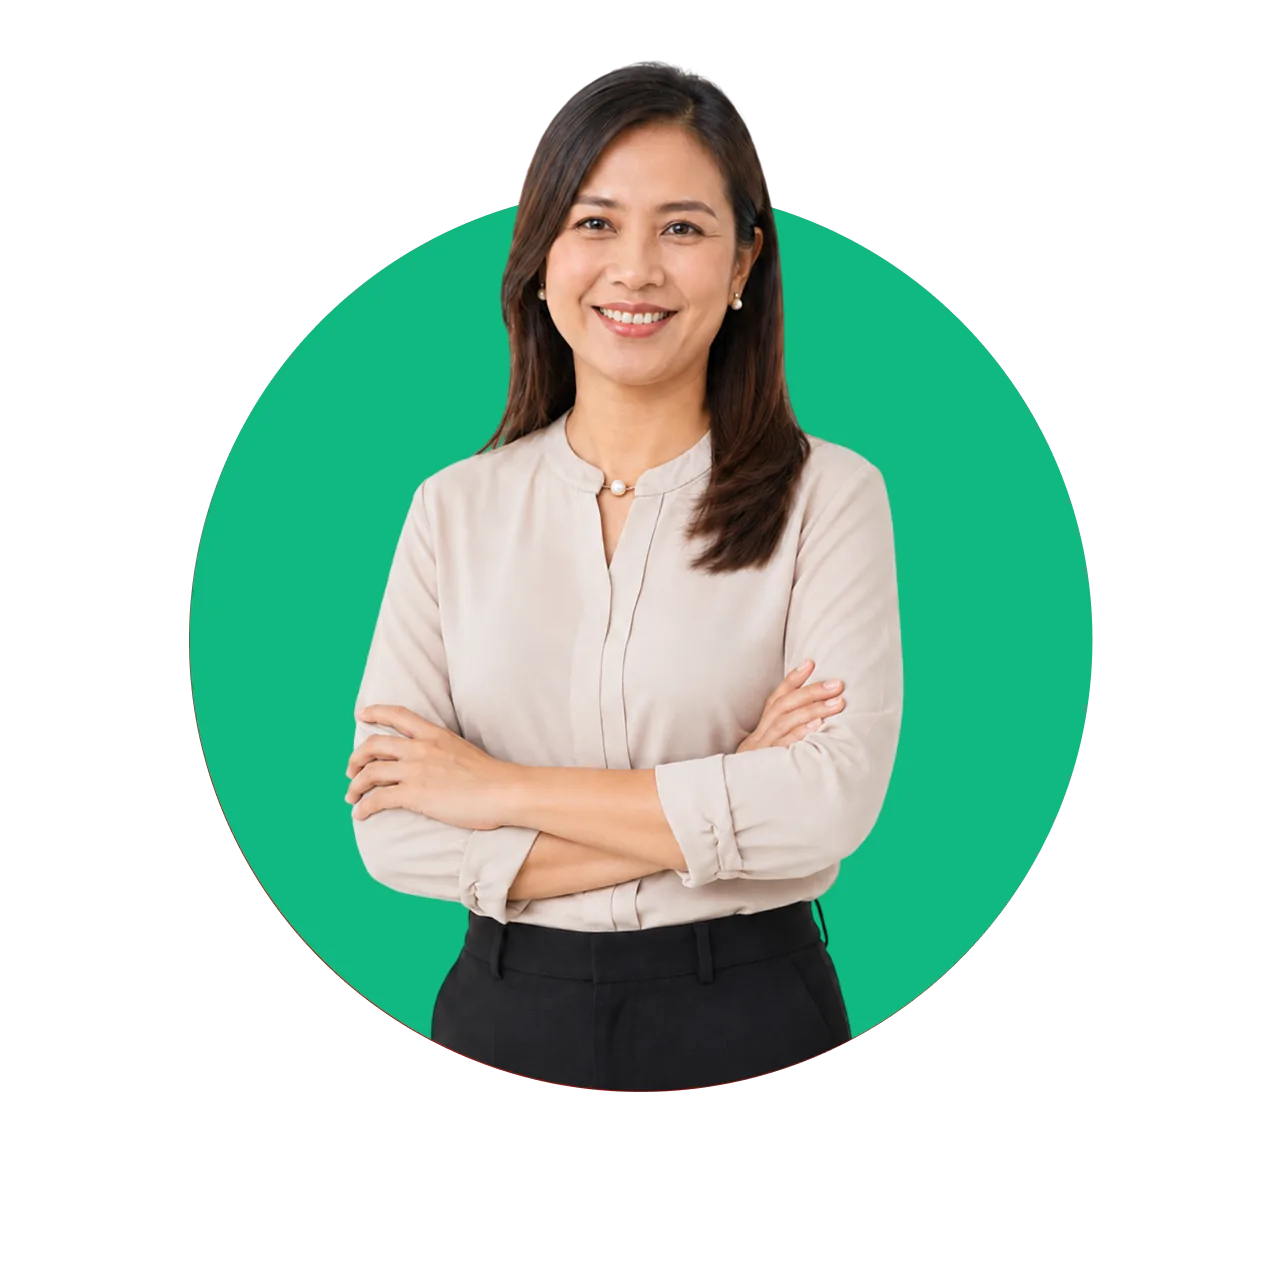
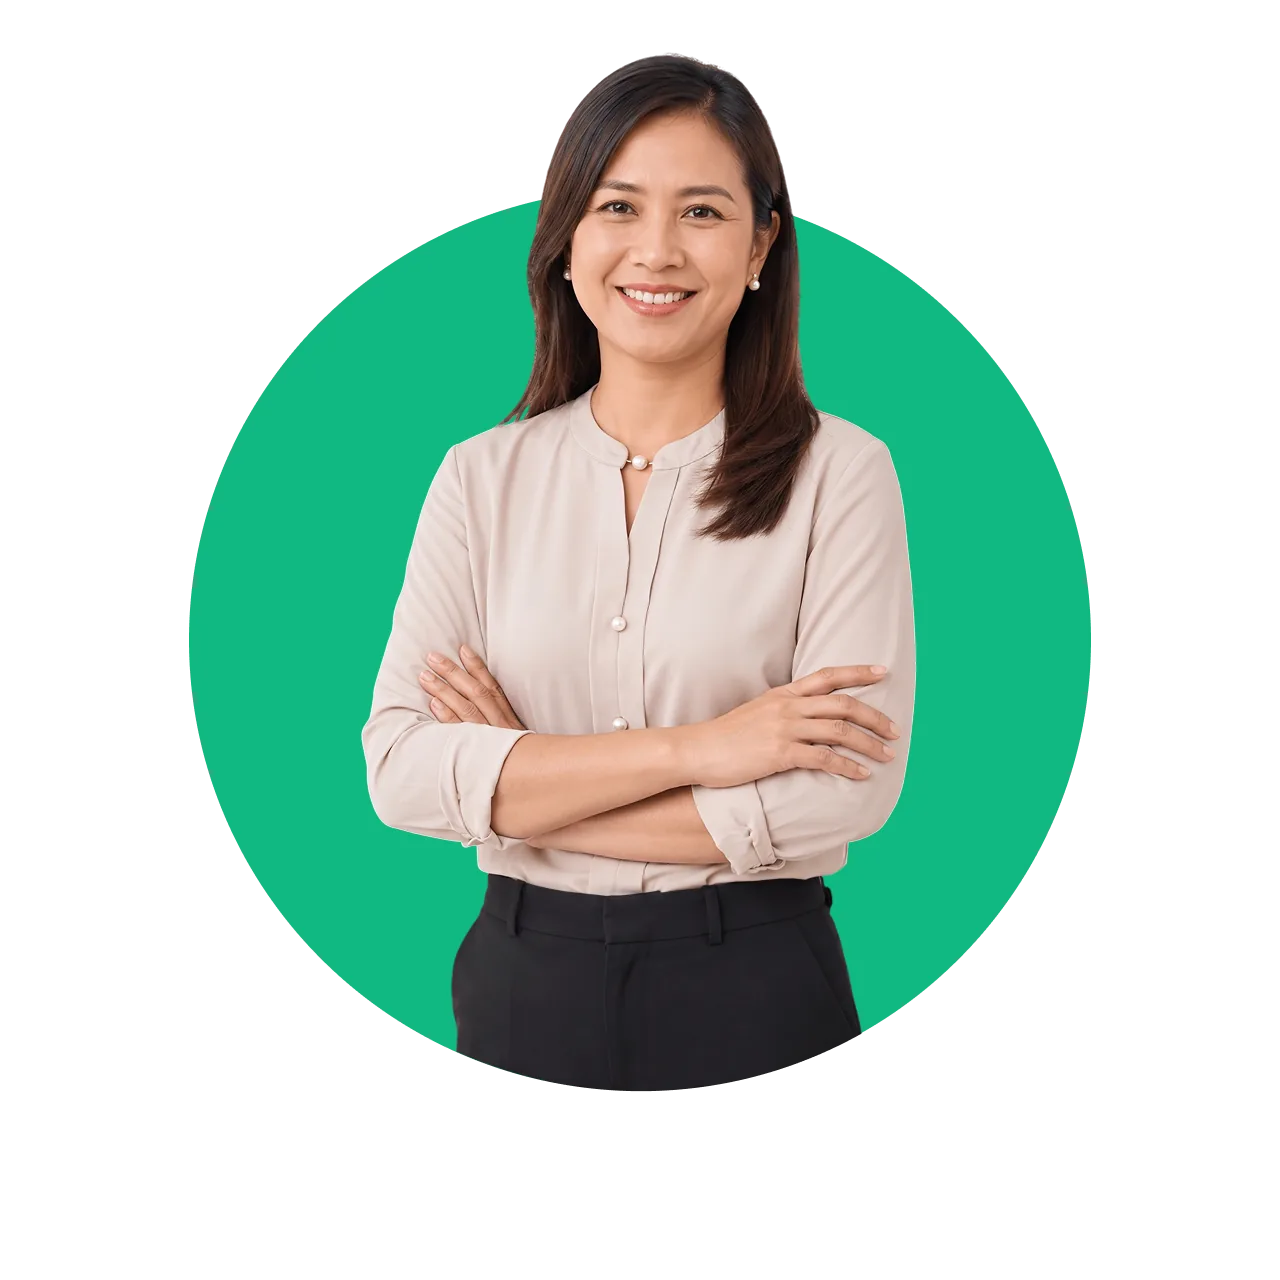
Replace admin & parent-app imagery; fix BuiltFor tablet layout
- Swap school-admin-circle and parent-app phone mockup images
- Bump BuiltFor card min-height to 600px
- Keep BuiltFor row stacked until lg to prevent cutout/text overlap at 768px

Changed region(s): [[0.25, 0.0312, 0.7188, 0.8438], [0.6562, 0.75, 0.6875, 0.8125]]

diff --git a/src/components/BuiltFor.jsx b/src/components/BuiltFor.jsx
@@ -92,7 +92,7 @@ function AudienceRow({ row, index }) {
     // person appears to rise out of the colored block. GSAP animates the
     // inner <img> while the wrapper keeps the horizontal centering.
     const mm = gsap.matchMedia()
-    mm.add('(min-width: 768px) and (prefers-reduced-motion: no-preference)', () => {
+    mm.add('(min-width: 1024px) and (prefers-reduced-motion: no-preference)', () => {
       // The cutout has a flat bottom crop, so translating it vertically either
       // pokes below the rounded corner or exposes that crop. Instead scale from
       // the bottom edge: the bottom stays pinned to the card while the figure
@@ -118,11 +118,11 @@ function AudienceRow({ row, index }) {
   }, [hasImage])
 
   return (
-    <div ref={rowRef} className={`relative ${hasImage ? 'md:pt-20' : ''}`}>
-      <div className={`relative rounded-3xl ${row.bg} overflow-hidden md:overflow-visible`}>
-        <div className="grid grid-cols-1 md:grid-cols-2 items-stretch md:min-h-[460px]">
+    <div ref={rowRef} className={`relative ${hasImage ? 'lg:pt-20' : ''}`}>
+      <div className={`relative rounded-3xl ${row.bg} overflow-hidden lg:overflow-visible`}>
+        <div className="grid grid-cols-1 lg:grid-cols-2 items-stretch lg:min-h-[600px]">
           {/* Text */}
-          <div className={`p-8 sm:p-10 md:p-14 flex flex-col justify-center ${mediaLeft ? 'md:order-2' : ''}`}>
+          <div className={`p-8 sm:p-10 md:p-14 flex flex-col justify-center ${mediaLeft ? 'lg:order-2' : ''}`}>
             <p className={`text-xs font-bold uppercase tracking-[0.14em] mb-3 ${row.eyebrow}`}>
               {row.audience}
             </p>
@@ -139,9 +139,9 @@ function AudienceRow({ row, index }) {
           </div>
 
           {/* Media — real cutout when available, systematic placeholder until then */}
-          <div className={`relative min-h-[300px] md:min-h-[360px] ${mediaLeft ? 'md:order-1' : ''}`}>
+          <div className={`relative min-h-[300px] md:min-h-[360px] ${mediaLeft ? 'lg:order-1' : ''}`}>
             {hasImage ? (
-              <div className="absolute bottom-0 left-1/2 -translate-x-1/2 h-full md:h-[114%]">
+              <div className="absolute bottom-0 left-1/2 -translate-x-1/2 h-full lg:h-[114%]">
                 <img
                   ref={imageRef}
                   src={row.image}

diff --git a/src/components/WhyChoose.jsx b/src/components/WhyChoose.jsx
@@ -29,7 +29,7 @@ const reasons = [
   },
 ]
 
-const PARENT_APP_IMG = '/images/parent-app.webp'
+const PARENT_APP_IMG = '/images/parent-app.webp?v=2'
 
 export default function WhyChoose() {
   const gridRef = useReveal({ children: true })
@@ -74,8 +74,8 @@ export default function WhyChoose() {
             <img
               src={PARENT_APP_IMG}
               alt="The EntraGuard parent app on a phone"
-              width={634}
-              height={1327}
+              width={978}
+              height={2000}
               loading="lazy"
               decoding="async"
               className="h-[520px] w-auto drop-shadow-2xl sm:h-[660px] lg:h-[780px]"

diff --git a/src/components/WhySchools.jsx b/src/components/WhySchools.jsx
@@ -97,7 +97,7 @@ export default function WhySchools() {
             />
 
             <img
-              src="/images/school-admin-circle.webp"
+              src="/images/school-admin-circle.webp?v=2"
               alt="School administrator using EntraGuard"
               width={1280}
               height={1280}
@@ -123,7 +123,7 @@ export default function WhySchools() {
               ))}
             </ul>
             <img
-              src="/images/school-admin-circle.webp"
+              src="/images/school-admin-circle.webp?v=2"
               alt="School administrator using EntraGuard"
               width={1280}
               height={1280}
